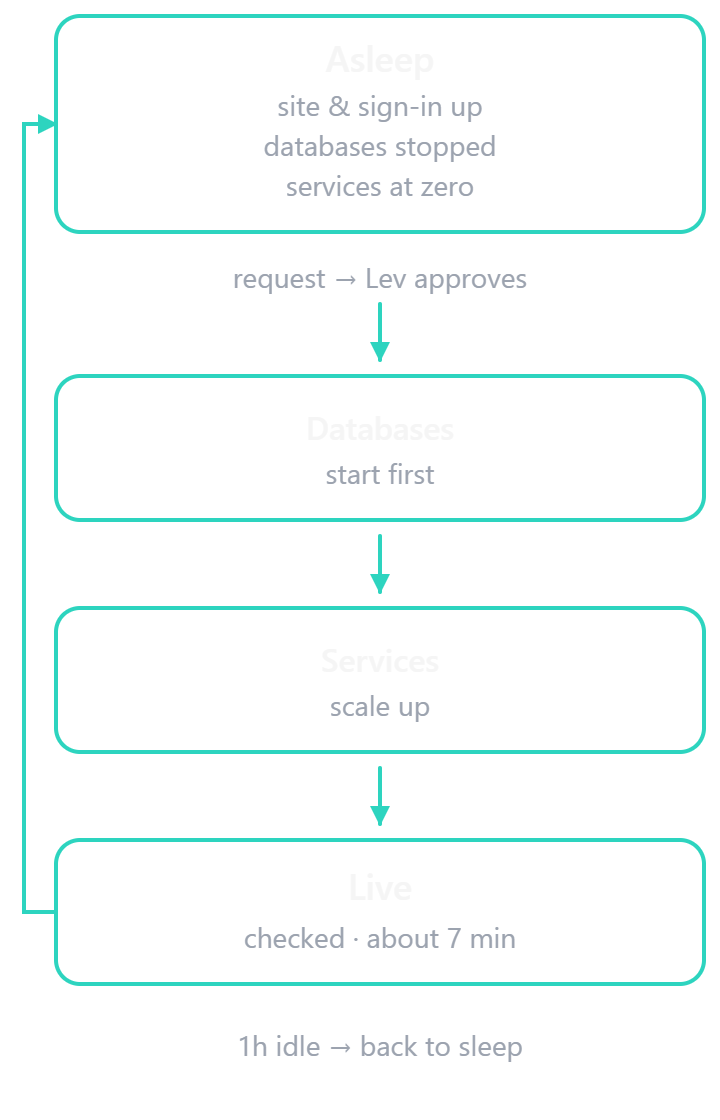
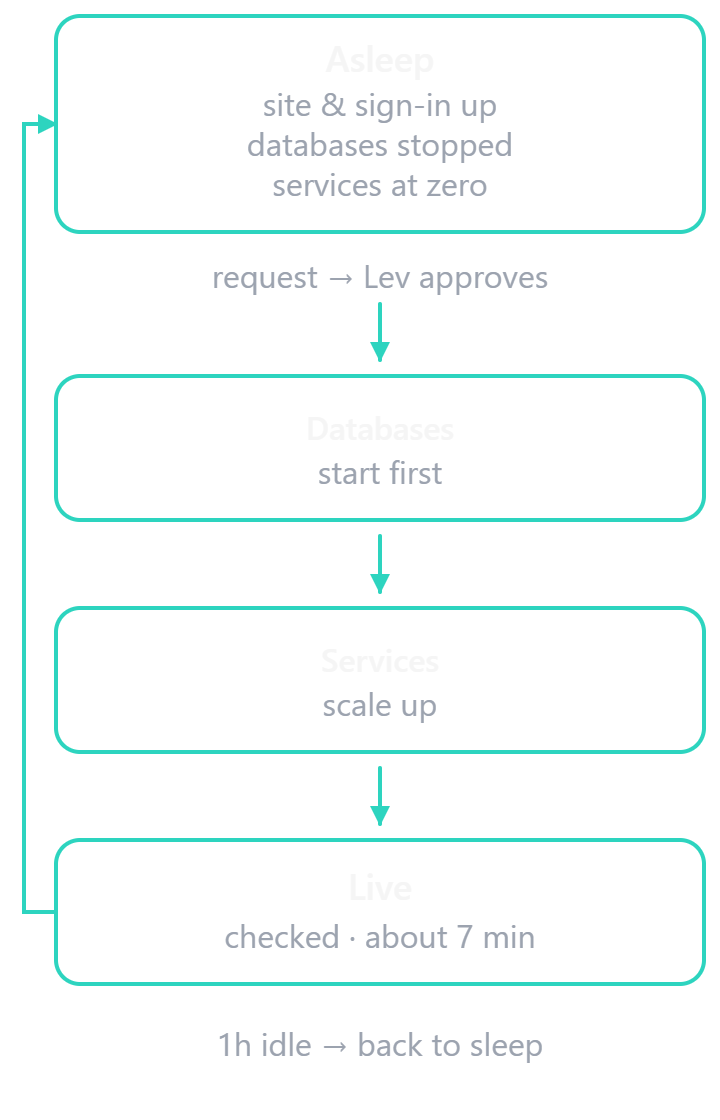
Raise the phone wake-strip sublabels to 16px.
At a 316px column the old 14px type drew at about 12px. Drop the hidden figcaption that repeated the image alt.

diff --git a/olympus/sleep.js b/olympus/sleep.js
@@ -93,10 +93,8 @@
     phone.width = 360;
     phone.height = 560;
     phone.loading = "lazy";
-    var fallback = el("figcaption", "visually-hidden", caption);
     figure.appendChild(img);
     figure.appendChild(phone);
-    figure.appendChild(fallback);
     panel.appendChild(figure);
     panel.appendChild(pill("", "Asleep. Request a look."));
     var button = el("button", "btn btn-primary sleep-cta is-marked", "Request a look");
